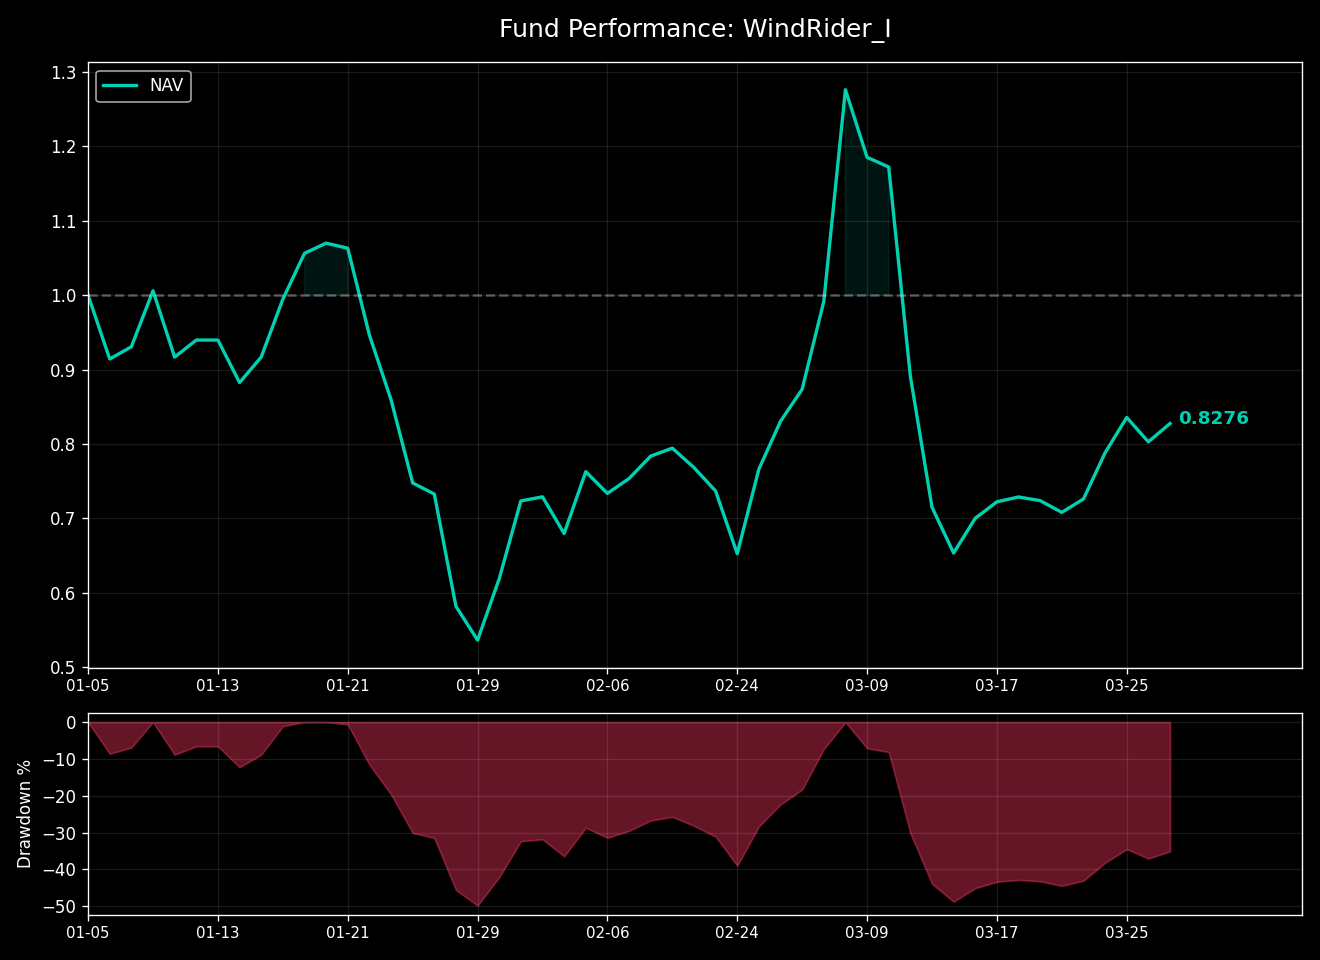
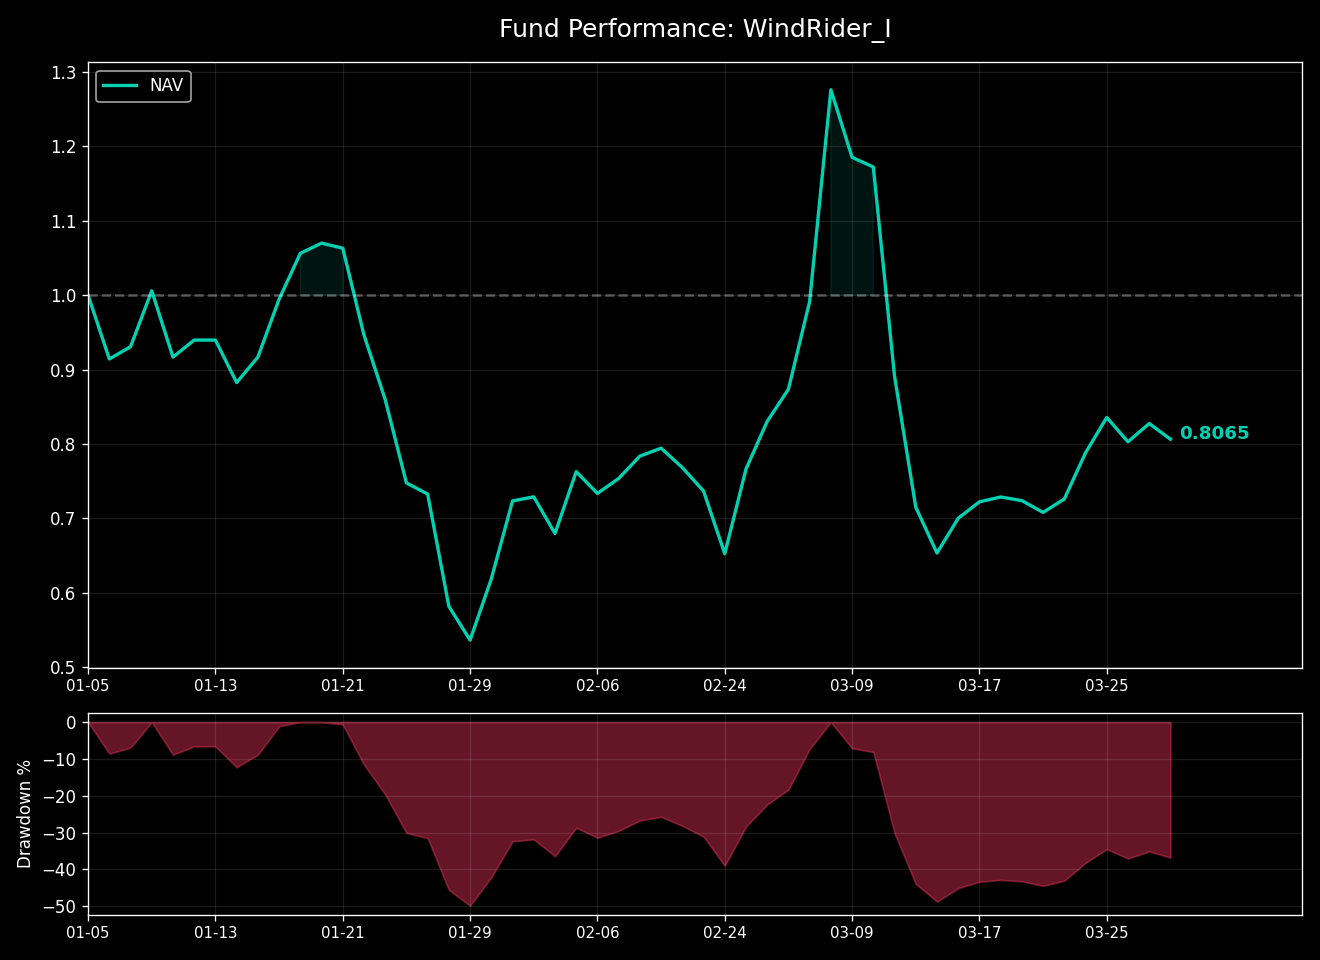
Updated Hugo site content

diff --git a/content/investment/windrider-1.md b/content/investment/windrider-1.md
@@ -1,8 +1,8 @@
 +++
 title = "风舵1号 (WindRider I)  /// 指数"
 summary = "商品期货分形摆动策略，实盘最新净值与核心风险指标。"
-date = 2026-03-27T15:15:03+08:00
-lastmod = 2026-03-27T15:15:03+08:00
+date = 2026-03-30T15:15:03+08:00
+lastmod = 2026-03-30T15:15:03+08:00
 draft = false
 description = "商品期货分形摆动策略实盘"
 +++
@@ -15,24 +15,24 @@ description = "商品期货分形摆动策略实盘"
 
 ### 风舵1号 (WindRider I) &nbsp;&nbsp;<span style="color: #E63946; font-weight: bold;">/</span><span style="color: #F1A73E; font-weight: bold;">/</span><span style="color: #000091; font-weight: bold;">/</span>&nbsp;&nbsp; 指数
 商品期货分形摆动策略实盘<br>
-净值简报 <small>(截至: 2026-03-27)</small>
+净值简报 <small>(截至: 2026-03-30)</small>
 
 |  |  |
 | :--- | :--- |
 | **指数代码：** | WDR1.CTA |
 | **起步日期：** | 2026-01-05 |
-| **最新净值：** | 0.8276 |
-| **今日涨跌：** | +3.06% |
+| **最新净值：** | 0.8065 |
+| **今日涨跌：** | -2.55% |
 
 ===========================
 
 | 核心指标 | |
 | :--- | :--- |
-| **累计涨跌：** | -17.24% |
-| **年化收益：** | -57.37% |
+| **累计涨跌：** | -19.35% |
+| **年化收益：** | -60.72% |
 | **最大回撤：** | -49.85% |
-| **卡玛比率：** | -1.15 |
-| **策略状态：** | 已运行 82 天 |
+| **卡玛比率：** | -1.22 |
+| **策略状态：** | 已运行 85 天 |
 
 ### 净值曲线
 ![风舵1号净值曲线](/images/investment/windrider_nav.png)
